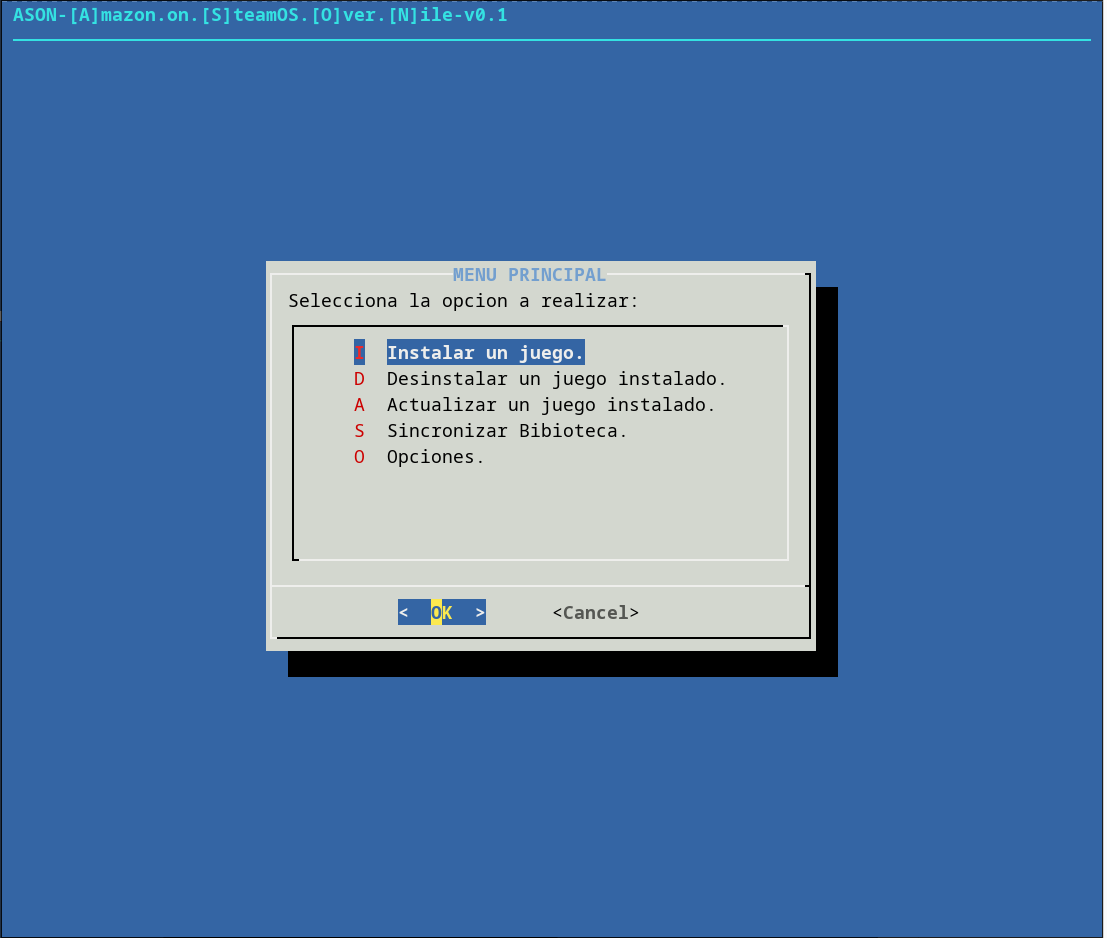
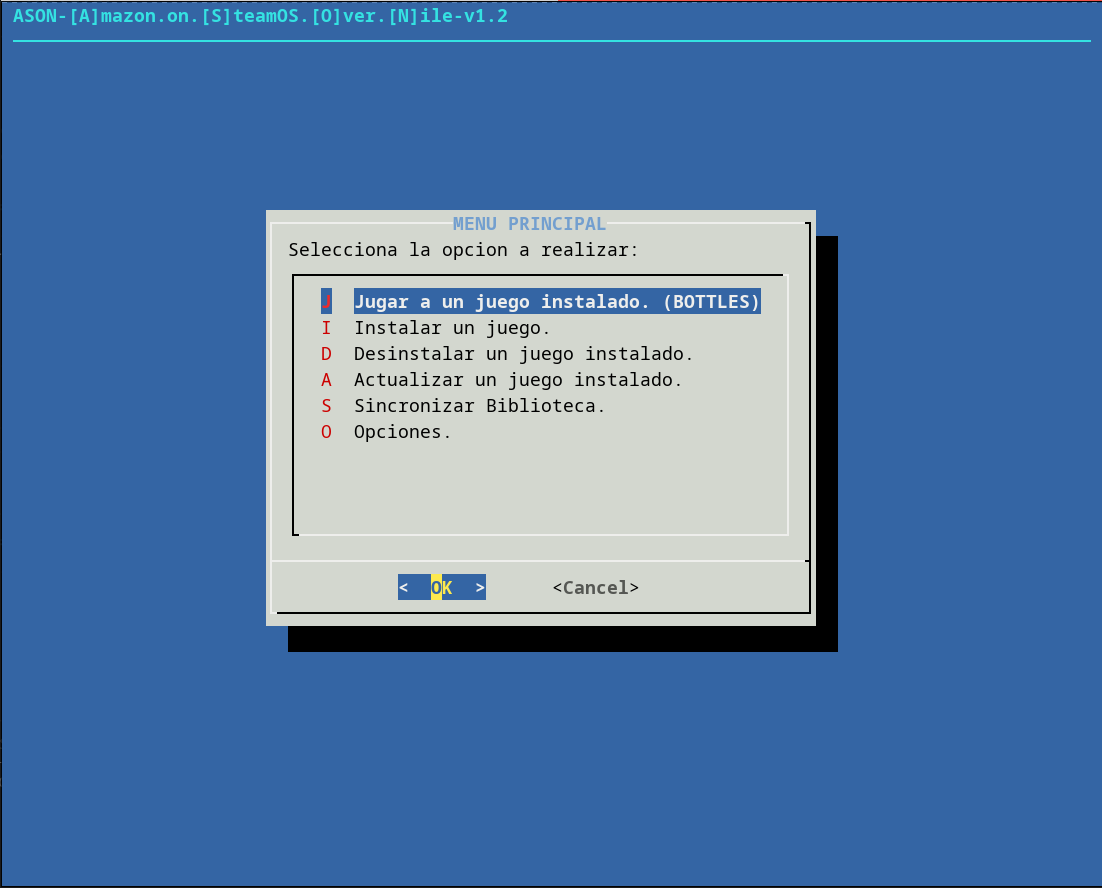
actualizacion a 1.2

Changed region(s): [[0.216, 0.2128, 0.7713, 0.7601], [0.0, 0.0, 1.0, 1.0]]

diff --git a/README.md b/README.md
@@ -28,7 +28,15 @@ Para la ejecución de Asón, corre directamente `Ason.sh` y te deberá de aparec
 
 También, puedes ejectuar los comandos de nile por tu cuenta. Recuerda que lo descargamos anteriormente y preparamos el entorno. Esto sí está al 100%. Podemos hacer cualquier cosa mediante comandos. Para correr nile, mediante comandos, dentro del directorio Ason ejecuta `Ason-cli.sh` con los parámetros correctos.
 
-_**RECORDATORIO**_: nile deja la configuración en ~/.config/nile
+_**RECORDATORIO**_: nile deja la configuración en ~/.config/nile/
+
+# REQUISITOS
+Para descargas, instalación y desinstalación de juegos de Amazon no es necesario ningún requisito.
+En cambio, para la ejecución de juegos, es necesario:
+* Tener instalado la Bottles a través de discover.
+* Que Bottles tenga asignado permisos en la ruta donde trabaja con las botellas. (Puede hacerse con Flatseal)
+* Que Bottles tenga asignado permisos en la ruta donde se descargan los juegos a través de Asón. (Puede hacerse con Flatseal)
+* Tener una botella creada, llamada `Ason` con la configuración que runner, dxkv, ... que se quiera utilizar. (Debe de hacerse desde la propia herramienta de Bottles)
 
 # FAQ
 ## ¿Cómo se instala?
@@ -49,6 +57,9 @@ Tienes tres formas de ejecutar Asón:
 * Doble clic en **Ason.desktop**. _RECOMENDADO_
 * Desde la línea de comandos, ejecuta: `Ason.sh`
 * Desde la línea de comandos, puedes ejecutar cada comando de Ason/Nile como un profesional. _Para usuarios experimentados_
+
+## ¿Puedo ejecutar juegos desde el propio Asón?
+Sí, ya a partir de la versión 1.2 es posible lanzar juegos automáticamente desde la herramienta. Esta usa bottles actualmente.
 
 ## ¿Dónde se instalan los juegos?
 Por defecto Asón lo guarda en la capeta HOME, dentro de una subcarpeta llamada "Games/nile". Es decir, en SteamOS en **/home/deck/Games/nile**
@@ -71,7 +82,6 @@ Fáci (sí, otra vez). Añade un programa de no Steam como estarás acostumbrado
 - Parámetros: `-e "/home/deck/Ason/Ason.sh"` (o donde tengas Asón)
 
 # TODO
-- Mejorar Wizard para ejecutar juegos en bottles. En versión 2.
-- Avisar de que el juego tiene dependencias de terceros. En versión 2.
-- ¿Instalar las dependencias de terceros en bottles? ¿En versión 2?
+- Crear entorno de bottles automáticamente, no fuera de la herramienta.
+- Posibilidad de crear varias botellas y elegir la dupla juego/botella.
 - ...

diff --git a/CHANGELOG.md b/CHANGELOG.md
@@ -5,7 +5,7 @@ Nuevas funciones:
 - Ejecuta juegos desde una botella previamente creada llamada Ason.
 - Instala dependencias del juego que se quiera ejecutar.
 
-Arrelgos:
+Arreglos:
 - Mejoras de estabilidad.
 - Arreglar fallos de documentación.
 - Erratas sintácticas.
